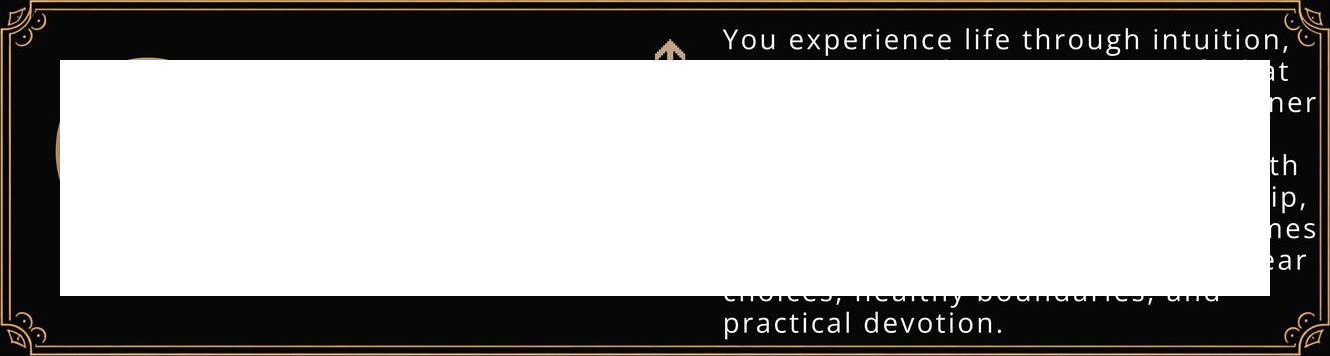
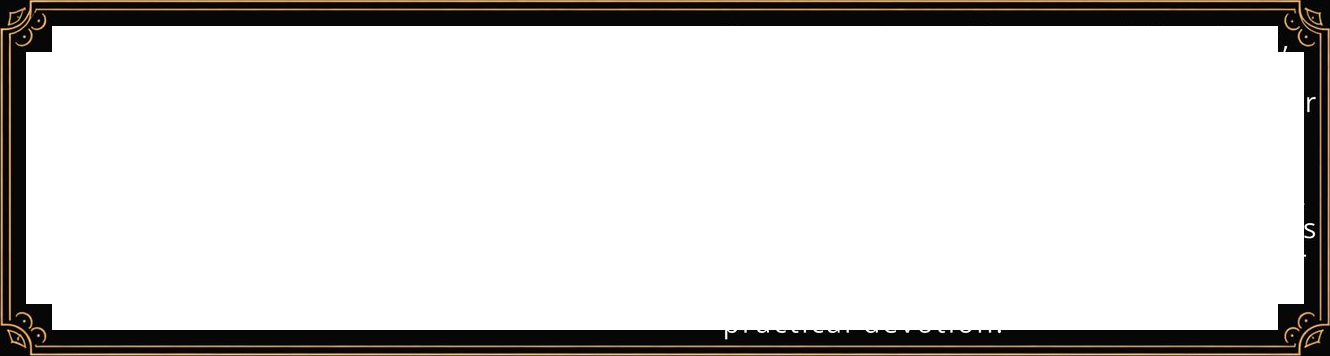
Add files via upload

Changed region(s): [[0.0, 0.0618, 0.9865, 0.927]]

diff --git a/index.html b/index.html
@@ -646,7 +646,7 @@
   </div>
 </div>
 
-<div id="ver">SCENE 1 · v19.77 · sidereal animation</div>
+<div id="ver">SCENE 1 · v19.78 · sidereal animation</div>
 
 <script>
 /* v19.75: the two-perspectives page owns its own zoom.
@@ -2361,7 +2361,7 @@ document.querySelectorAll('.syscard').forEach(card => {
     vc.classList.add('show');                       /* dark base while the reveal loads */
 
     const next = sys === 'sidereal'
-      ? 'sidereal-reveal.html?v=1951'
+      ? 'sidereal-reveal.html?v=1952'
       : 'tropical-reveal.html?v=1851';
     console.log('[EMERGE FLOW] 10. living page — loading reveal in place:', next);
     const fr = document.createElement('iframe');

diff --git a/sidereal-reveal.html b/sidereal-reveal.html
@@ -848,7 +848,7 @@ var BIRTH = __ok ? {
 console.log('[EMERGE FLOW] 5. sidereal-reveal — system in storage:',
             SAVED && SAVED.system, '| data:', __ok ? 'user birth data' : 'QA fallback');
 document.getElementById('stamp').textContent =
-  'SIDEREAL v19.51 opaque frames · LAHIRI · d1 · data:' + ((SAVED && SAVED.system) || 'none');
+  'SIDEREAL v19.52 clean frame · LAHIRI · d1 · data:' + ((SAVED && SAVED.system) || 'none');
 
 var DEG = Math.PI/180, RAD = 180/Math.PI;
 
